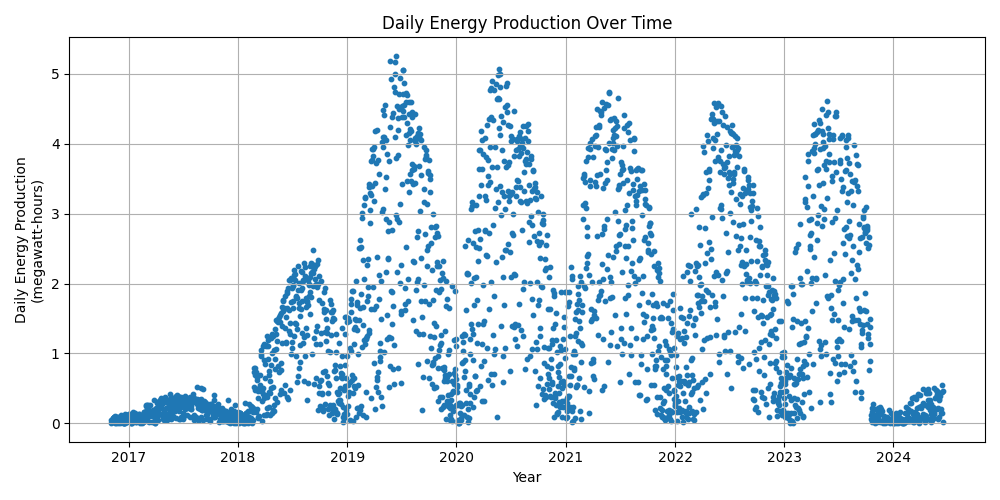
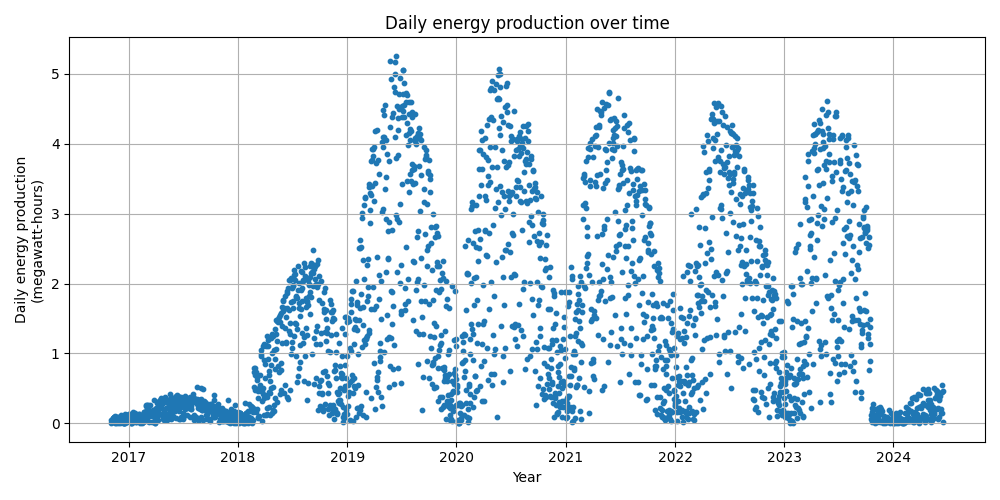
Update plot labels and filenames

Changed region(s): [[0.372, 0.03, 0.682, 0.06], [0.0, 0.33, 0.031, 0.57]]

diff --git a/src/core/pipeline/exploratory_data_analysis.py b/src/core/pipeline/exploratory_data_analysis.py
@@ -33,9 +33,9 @@ def plot_panels_reporting_over_time(cleaned_unpartitioned: pd.DataFrame, save: b
     # Generate scatterplot
     plt.figure(figsize=(10,5))
     plt.scatter(daily_sum['date'], daily_sum['panels_reporting'], s=10)
-    plt.title('Daily Maximum Total Panels Reporting Over Time')
+    plt.title('Number of active panels over time')
     plt.xlabel('Year')
-    plt.ylabel('Daily Maximum Total Panels Reporting\n(# of panels)')
+    plt.ylabel('Number of active panels')
     plt.grid(True)
     plt.tight_layout()
 
@@ -66,9 +66,9 @@ def plot_total_energy_production_over_time(readings_feature_engineered: pd.DataF
     # Generate scatterplot
     plt.figure(figsize=(10,5))
     plt.scatter(daily_sum['date'], daily_sum['energy_prod_mwh'], s=10)
-    plt.title('Daily Energy Production Over Time')
+    plt.title('Daily energy production over time')
     plt.xlabel('Year')
-    plt.ylabel('Daily Energy Production\n(megawatt-hours)')
+    plt.ylabel('Daily energy production\n(megawatt-hours)')
     plt.grid(True)
     plt.tight_layout()
 

diff --git a/README.md b/README.md
@@ -8,7 +8,7 @@ The primary source of training data for this ML project has been compromised.
 
 Starting in late 2023, a substantial proportion of microinverters began failing to report energy readings for solar panel installations.
 
-![Number of panels reporting](figures/panels_reporting.png)
+![Number of panels reporting](figures/active_panels.png)
 
 Recent microinverter readings would have served as the baseline for model prediction. Without this data, predictions would have such large confidence intervals that the model would not be useful for achieving business objectives.
 
